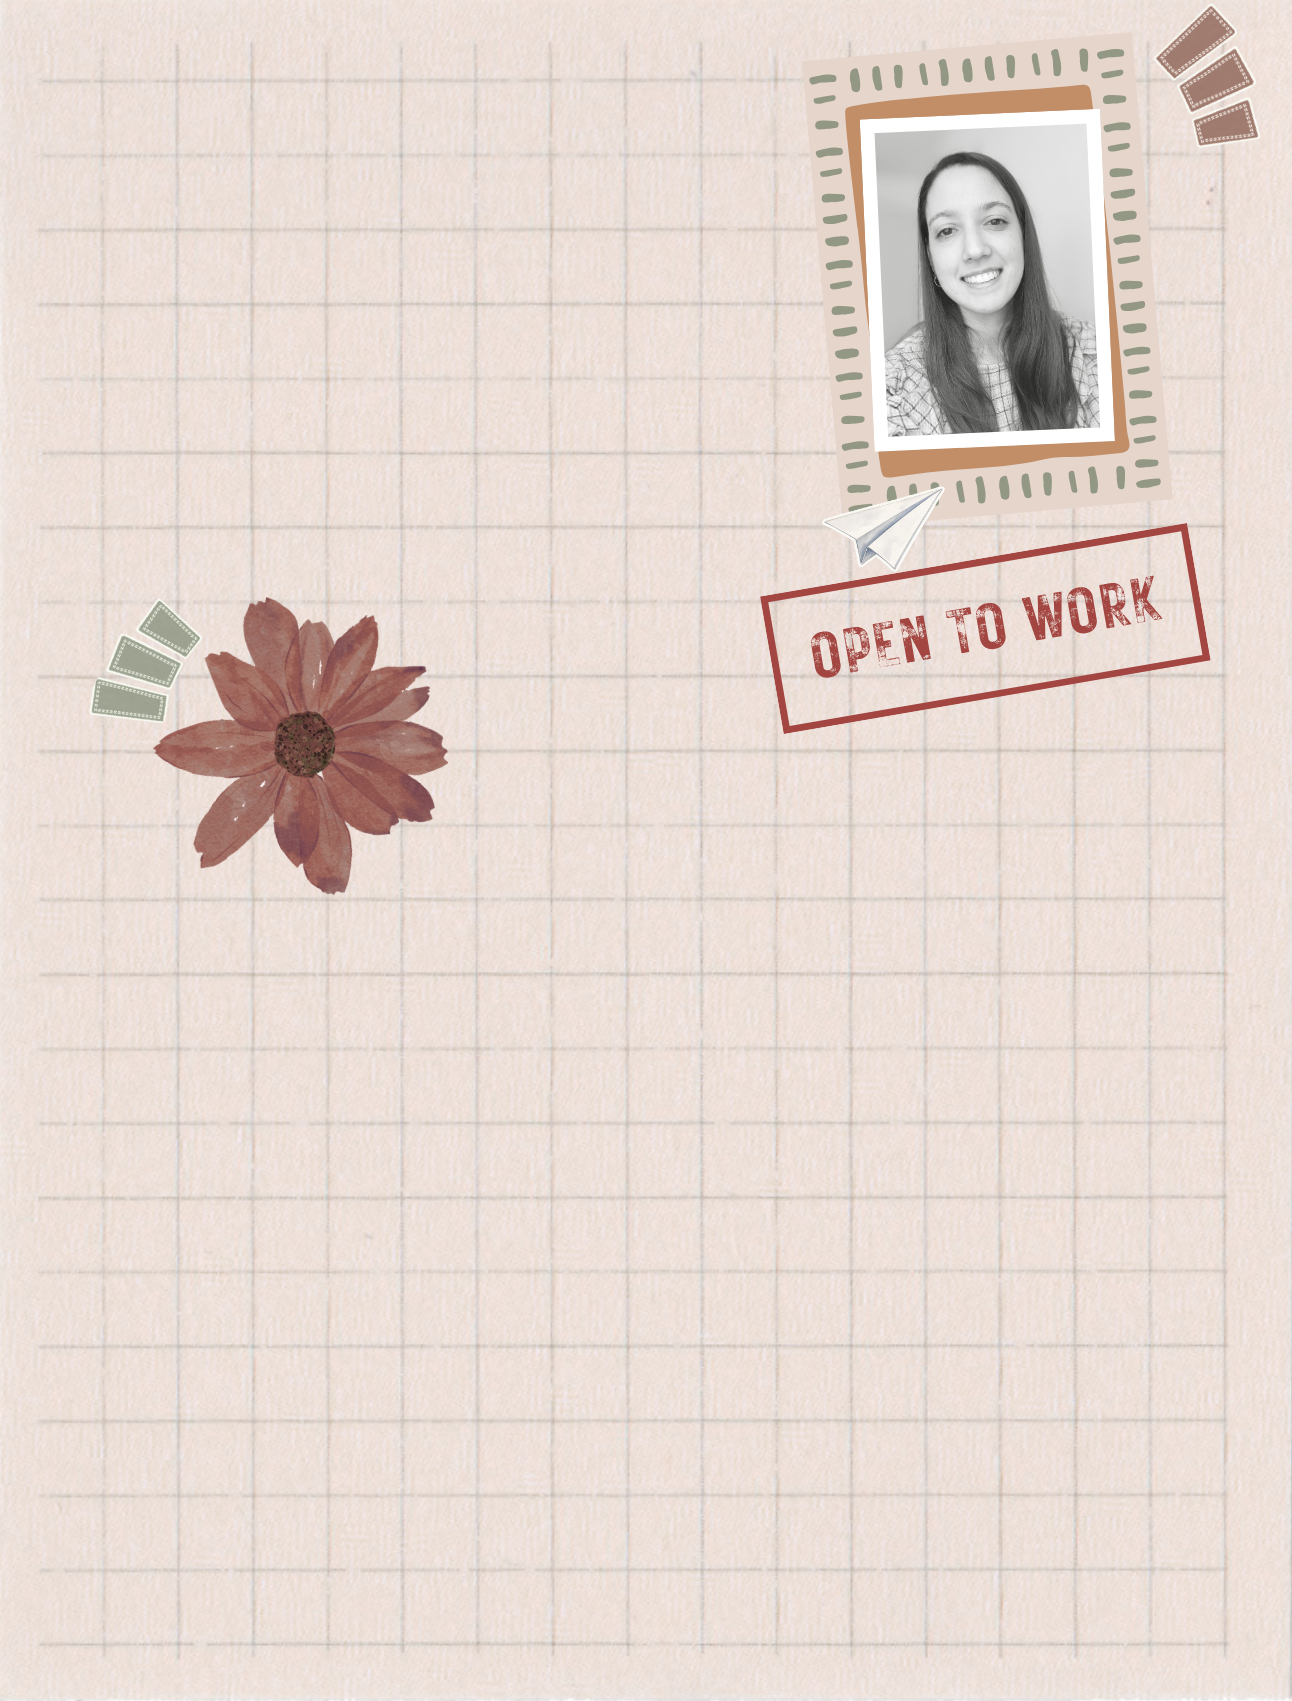
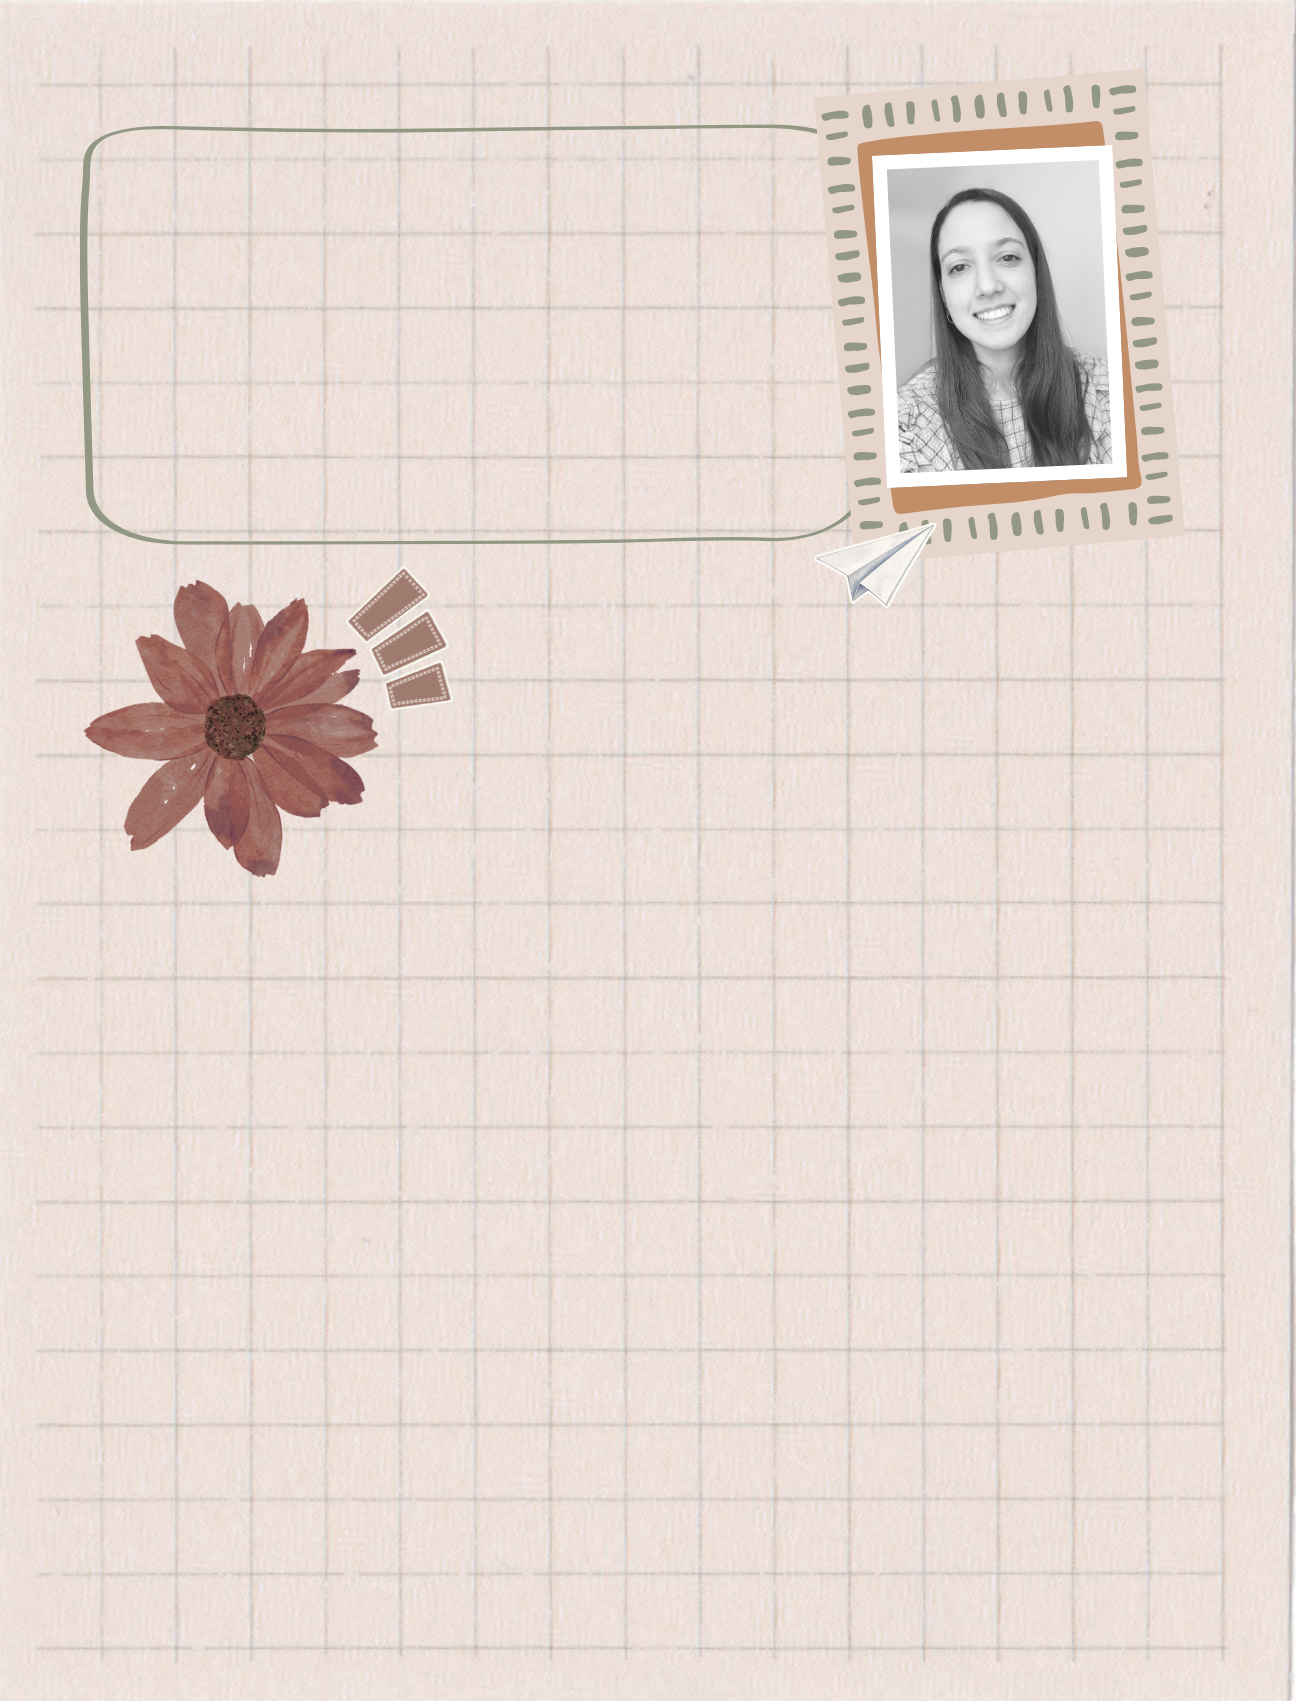
chore: arreglo diseño pantalla Contact

diff --git a/src/pages/Contact.jsx b/src/pages/Contact.jsx
@@ -41,37 +41,54 @@ function Contact() {
         top-0 left-0
         w-full h-300"
         >
+          <p
+            className="
+            text-(--color-text-vivid)
+            text-end
+            text-sm
+            font-body
+            absolute
+            top-60 right-50
+            z-10
+            -rotate-4"
+          >
+            Portfolio diseñado con Figma.
+            <br />
+            Creado en Visual Studio Code con React JS, <br />
+            Tailwind CSS y Motion.
+            <br />
+            Deployed en Vercel
+          </p>
           <img
             src={trozoPapel13}
             alt=""
             className="
-        absolute
-        top-18 left-100
-        w-230 h-300
-        object-fit
-        -rotate-4
-        shadow-(--shadow-paper)
-        opacity-80"
+            absolute
+            top-18 right-10
+            w-230 h-300
+            object-fit
+            -rotate-4
+            shadow-(--shadow-paper)
+            opacity-80"
           />
           <img
             src={trozoPapel12}
             alt=""
             className="
-        absolute
-        top-4 left-30
-        w-230 h-300
-        object-fit
-        rotate-2
-        shadow-(--shadow-paper)"
+            absolute
+            top-6 left-20
+            w-230 h-300
+            object-fit
+            rotate-2
+            shadow-(--shadow-paper)"
           />
           <div
             className="
           absolute
-          top-30 left-50
+          top-30 left-40
           rotate-2
-          p-4 w-90
-          border-2 border-(--color-3)
-          rounded-lg"
+          py-6 pl-20 
+          w-90"
           >
             {contacts.map((item) => (
               <a
@@ -80,13 +97,14 @@ function Contact() {
                 target="_blank"
                 rel="noopener noreferrer"
                 className="
-              group flex items-center 
-              gap-4 md:gap-2 lg:gap-4
-              px-4 py-3 rounded-lg
-              transition-all duration-300
-              hover:bg-white/10
-              hover:-translate-y-1
-              hover:shadow-[0_6px_15px_rgba(0,0,0,0.25)]"
+                group 
+                flex 
+                items-center
+                text-(--color-text-dark) 
+                gap-4
+                px-4 py-3 
+                transition duration-300
+                group-hover:scale-110"
               >
                 <img
                   src={item.icon}
@@ -97,7 +115,12 @@ function Contact() {
                 group-hover:scale-110
                 group-hover:drop-shadow-[0_0_6px_rgba(255,255,255,0.6)]"
                 />
-                <div className="flex flex-col">
+                <div
+                  className="
+                flex flex-col
+                transition duration-300
+                group-hover:scale-105"
+                >
                   <span className="text-sm opacity-70">{item.label}</span>
                   <span
                     className="
@@ -112,20 +135,6 @@ function Contact() {
           </div>
         </div>
       </motion.div>
-      {/* <div
-        className="
-            text-(--color-4) 
-            text-xs md:text-sm
-            text-end
-            p-4"
-      >
-        <p>
-          Portfolio diseñado con Whimsical.
-          <br />
-          Creado en Visual Studio Code con React JS y Tailwind CSS. <br />
-          Deployed en Vercel
-        </p>
-      </div> */}
     </section>
   );
 }
